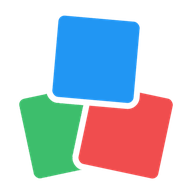
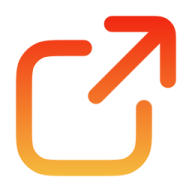
Add files via upload

diff --git a/index.html b/index.html
@@ -6,7 +6,7 @@
     <meta name="apple-mobile-web-app-capable" content="yes">
     <meta name="apple-mobile-web-app-title" content="Mes Liens">
     <title>Mes Liens</title>
[2 lines of base64/hex data omitted]
 	
     <link rel="preconnect" href="https://fonts.googleapis.com">
     <link rel="preconnect" href="https://fonts.gstatic.com" crossorigin="">
@@ -1099,12 +1099,31 @@
             box-shadow: 0 4px 16px rgba(99,102,241,0.1), 0 1px 4px rgba(0,0,0,0.05) !important;
         }
         .theme-colore .category-header {
-            background: #ededed !important;
-            border-bottom: 0.5px solid rgba(0,0,0,0.07) !important;
+            padding: 0 !important;
+            display: flex !important;
+            align-items: stretch !important;
+            background: rgba(99, 102, 241, 0.18) !important;
+            border-bottom: none !important;
             box-shadow: none !important;
         }
+        .category-icon-band {
+            width: 32px;
+            flex-shrink: 0;
+            display: flex;
+            align-items: center;
+            justify-content: center;
+            font-size: 14px;
+        }
+        .theme-colore .category-header .category-title {
+            padding: 7px 8px;
+            flex: 1;
+        }
+        .theme-colore .category-header .link-count {
+            align-self: center;
+            margin-right: 8px;
+        }
         .theme-colore .category-title {
-            color: #2a2a3a;
+            color: #3730a3;
             text-shadow: none;
         }
         .theme-colore .link-count {
@@ -1750,8 +1769,8 @@
                     <div class="menu-separator"></div>
                     <button class="menu-item" id="filtersToggleBtn"><span class="menu-item-icon">🔘</span><span class="menu-item-text" style="display:flex;align-items:center;justify-content:space-between;">Boutons filtres <input type="checkbox" id="filtersCheckbox" checked="" class="menu-item-checkbox" onclick="event.stopPropagation()"></span></button>
                     <div class="menu-separator"></div>
-                    <button class="menu-item" id="exportJsonBtn"><span class="menu-item-icon">📤</span><span class="menu-item-text">Exporter</span></button>
-                    <button class="menu-item" id="importJsonBtn"><span class="menu-item-icon">📥</span><span class="menu-item-text">Importer</span></button>
+                    <button class="menu-item" id="exportJsonBtn"><span class="menu-item-icon">📤</span><span class="menu-item-text">Exporter liens (JSON)</span></button>
+                    <button class="menu-item" id="importJsonBtn"><span class="menu-item-icon">📥</span><span class="menu-item-text">Importer liens (JSON)</span></button>
                     <div class="menu-separator"></div>
                     <button class="menu-item" id="themesBtn"><span class="menu-item-icon">🎨</span><span class="menu-item-text">Thèmes <span id="themesArrow" style="float:right; opacity:0.5;">∨</span></span></button>
                     <div class="themes-submenu" id="themesSubmenu">
@@ -1959,7 +1978,7 @@
         // ── Icônes des modes de recherche (base64) ───────────────
         const SEARCH_MODE_ICONS = {
             liens:      document.querySelector('link[rel="icon"]')?.href || '',
[4 lines of base64/hex data omitted]
 		};
@@ -2276,7 +2295,9 @@
                     if (isEditMode) {
                         html += '<span class="drag-handle" title="Déplacer la catégorie">⋮⋮</span>';
                     }
-                    if (info.icon) {
+                    if (currentTheme === 'colore' && !isEditMode) {
+                        html += '<span class="category-icon-band" style="background:' + pillColor + ';">' + (info.icon ? escapeHtml(info.icon) : '📁') + '</span>';
+                    } else if (info.icon) {
                         html += '<span class="category-icon">' + escapeHtml(info.icon) + '</span>';
                     }
                     html += '<h2 class="category-title">' + catH + '</h2>';
@@ -2347,10 +2368,12 @@
                             if (title) title.style.setProperty('color', '#fff', 'important');
                         }
                     } else if (currentTheme === 'colore') {
-                        // Liseré gauche + badge coloré
-                        section.style.setProperty('border-left', '3px solid ' + pillColor, 'important');
+                        // Bordure complète de la couleur de catégorie
                         const badge = section.querySelector('.link-count');
                         if (badge) badge.style.setProperty('background', pillColor, 'important');
+                        const header = section.querySelector('.category-header');
+                        if (header) header.style.setProperty('border-bottom', '2px solid ' + pillColor, 'important');
+                        section.style.setProperty('border', '2px solid ' + pillColor, 'important');
                     }
                 }
             });
@@ -3271,6 +3294,21 @@
                     }
                 }
             });
+
+            // Bloquer les clics sur les liens, filtres et mode recherche quand le menu est ouvert
+            document.addEventListener('click', function(e) {
+                const menu = document.getElementById('menu');
+                if (menu && menu.classList.contains('active')) {
+                    const blocked = e.target.closest('.link-item, .category-btn, .search-mode-btn, .search-mode-opt, #searchModeBtn');
+                    if (blocked) {
+                        e.preventDefault();
+                        e.stopImmediatePropagation();
+                        menu.classList.remove('active');
+                        document.getElementById('themesSubmenu').classList.remove('show');
+                        document.getElementById('themesArrow').textContent = '∨';
+                    }
+                }
+            }, true);
             
             menu.addEventListener('click', function(e) {
                 e.stopPropagation();

diff --git a/README.md b/README.md
@@ -1,5 +1,5 @@
-# 🔗 Mes Liens
-> Gestionnaire de liens personnel — rapide, élégant, accessible partout.
+# ➚ Mes Liens
+> Organisez vos Liens Internet par catégories
 
 ![Version](https://img.shields.io/badge/version-1.0-blue) ![PWA](https://img.shields.io/badge/PWA-offline%20ready-brightgreen) ![Licence](https://img.shields.io/badge/licence-libre-green)
 
@@ -7,9 +7,7 @@
 
 ## ✨ Présentation
 
-**Mes Liens** est une application web accessible depuis n'importe quel appareil via une simple URL. Aucune installation, aucun serveur à gérer. Ouvrez le lien et c'est prêt.
-
-Conçue pour centraliser en un seul endroit vos liens web, ainsi que des raccourcis vers certaines applications (Teams, Outlook, Zoom, Slack…) — organisés par catégories et ouverts en un clic. Les exécutables (.exe) ne sont pas supportés.
+Ce gestionnaire regroupe vos sites préférés dans des sections claires pour ouvrir une adresse (URL) en un coup d'œil. Il est aussi possible de créer des raccourcis vers certaines applications (Teams, Outlook, Zoom, Slack…)
 
 ---
 
@@ -23,16 +21,16 @@ Conçue pour centraliser en un seul endroit vos liens web, ainsi que des raccour
 
 ## 🚀 Fonctionnalités
 
-- 📁 **Catégories personnalisables** — organisez vos liens par thème avec une couleur attribuée à chaque catégorie
+- 📁 **Catégories personnalisables** — organisez vos liens par thème
 - 🏷️ **Icônes de catégories** — associez une icône emoji à chaque catégorie pour une navigation plus visuelle
-- 🔍 **Barre de recherche universelle** — recherchez parmi vos liens, sur Google, YouTube ou sur SharePoint
-- 🎨 **8 thèmes visuels** — Clair, Sombre, Pastel, Nuit Étoilée, Aurore Boréale, Lavande, Glace, Minuit
+- 🔍 **Barre de recherche multi-plateforme** — Trouvez un lien enregistré ou lancez une recherche sur Google, YouTube et SharePoint
+- 🎨 **Thèmes visuels** — Personnalisez l'affichage selon vos préférences en un clic
 - ✏️ **Mode édition** — ajoutez, modifiez, supprimez et réorganisez vos liens par glisser-déposer
 - 🔗 **Raccourcis applications** — ouvrez rapidement Teams, Outlook, Zoom et d'autres apps depuis vos liens. Seules les applications listées ci-dessous sont supportées — les fichiers `.exe` ne peuvent pas être lancés directement
 - 📱 **Compatible mobile** — interface adaptée avec boutons de navigation tactile en mode édition
 - 💾 **Sauvegarde automatique** — chaque modification est instantanément enregistrée dans votre navigateur
-- 📤 **Export / Import de données** — transférez vos liens entre appareils
-- 📶 **Mode hors-ligne (PWA)** — l'application fonctionne sans internet après la première visite
+- 📤 **Exporter liens / Importer liens** — transférez vos liens entre appareils
+- 📶 **Mode hors-ligne (PWA)** — l'application fonctionne sans internet après la première visite sur l'url https://lifekits.github.io/mes-liens/
 
 ---
 
@@ -59,8 +57,8 @@ Pour un accès rapide, ajoutez-la à votre écran d'accueil :
 
 ### Transférer ses liens sur un autre appareil
 
-1. Sur l'appareil source — menu ☰ → **📤 Exporter les données** → enregistrez le fichier
-2. Sur le nouvel appareil — ouvrez l'URL, menu ☰ → **📥 Importer les données** → sélectionnez le fichier
+1. Sur l'appareil source — menu ☰ → **📤 Exporter liens (JSON)** → enregistre les données des liens dans un fichier JSON
+2. Sur le nouvel appareil — ouvrez l'URL, menu ☰ → **📥 Importer liens (JSON)** → sélectionnez le fichier JSON pour importer les liens
 
 > Conseil : conservez ce fichier de données en lieu sûr comme sauvegarde.
 
@@ -68,7 +66,7 @@ Pour un accès rapide, ajoutez-la à votre écran d'accueil :
 
 | Mode | Description |
 |------|-------------|
-| Mes liens | Filtre vos liens en temps réel |
+| Mes liens | Filtre vos liens |
 | Google | Lance une recherche Google (Entrée) |
 | YouTube | Lance une recherche YouTube (Entrée) |
 | SharePoint | Lance une recherche sur votre SharePoint (Entrée) |